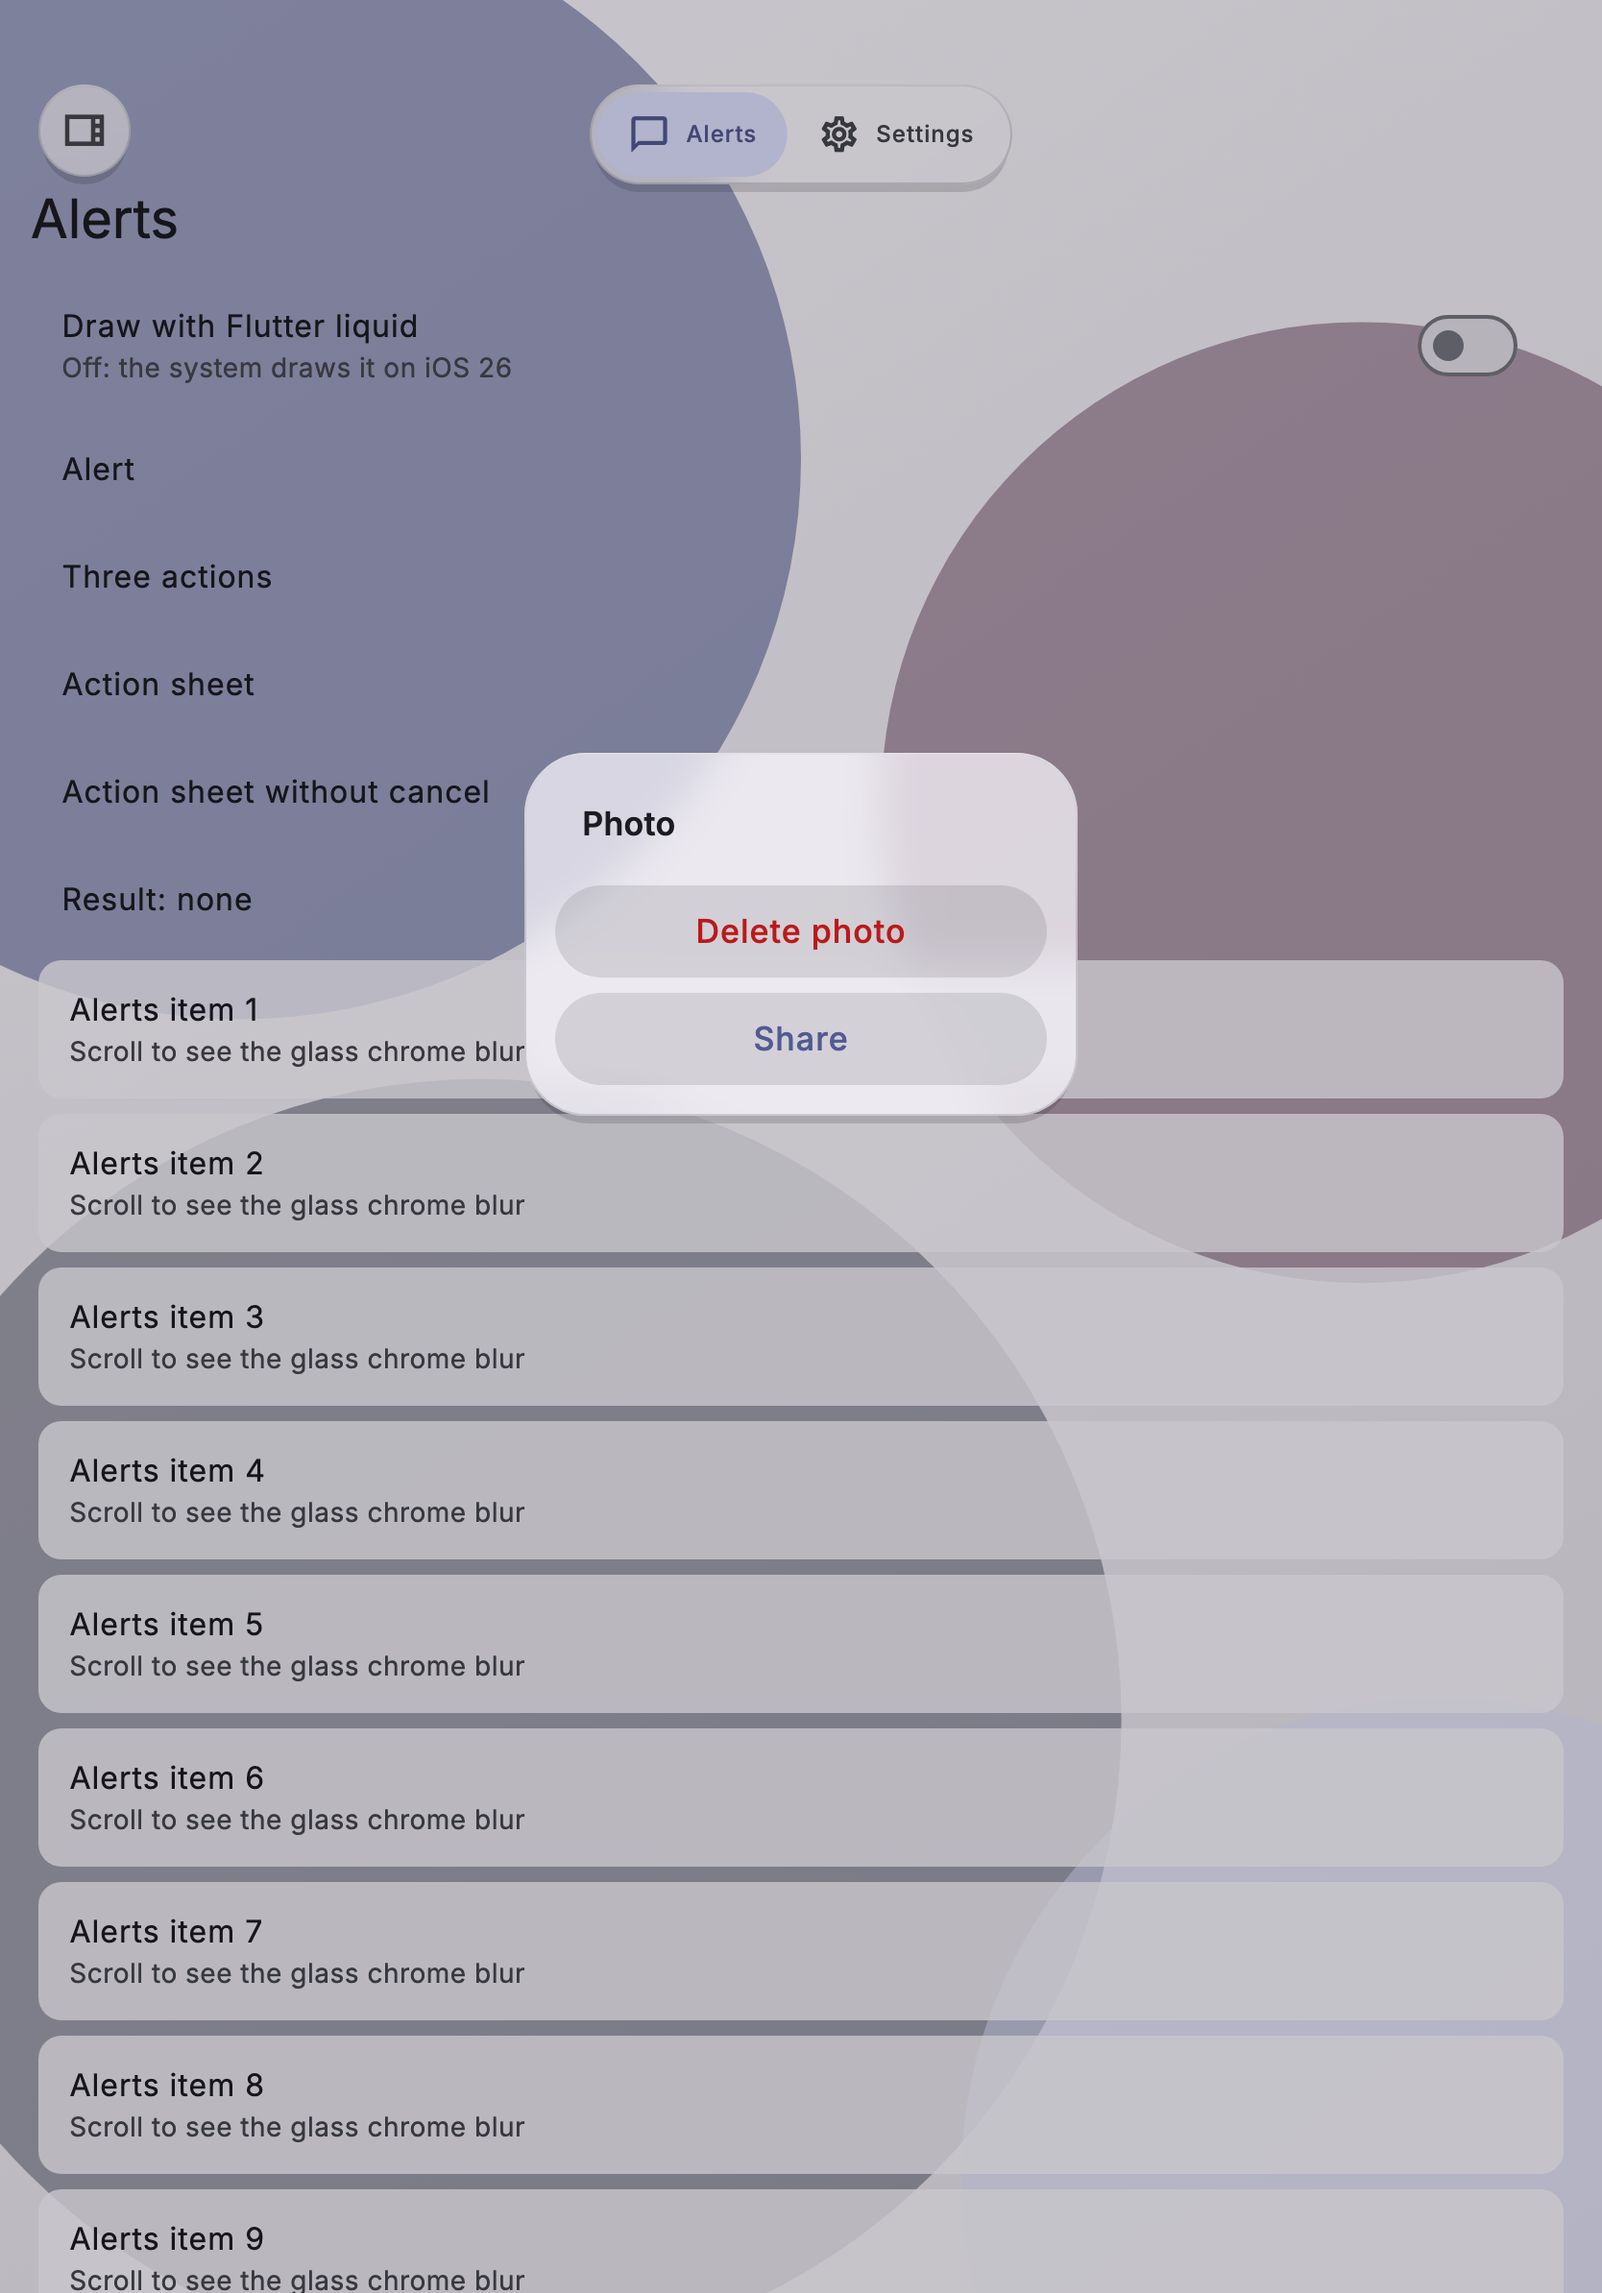
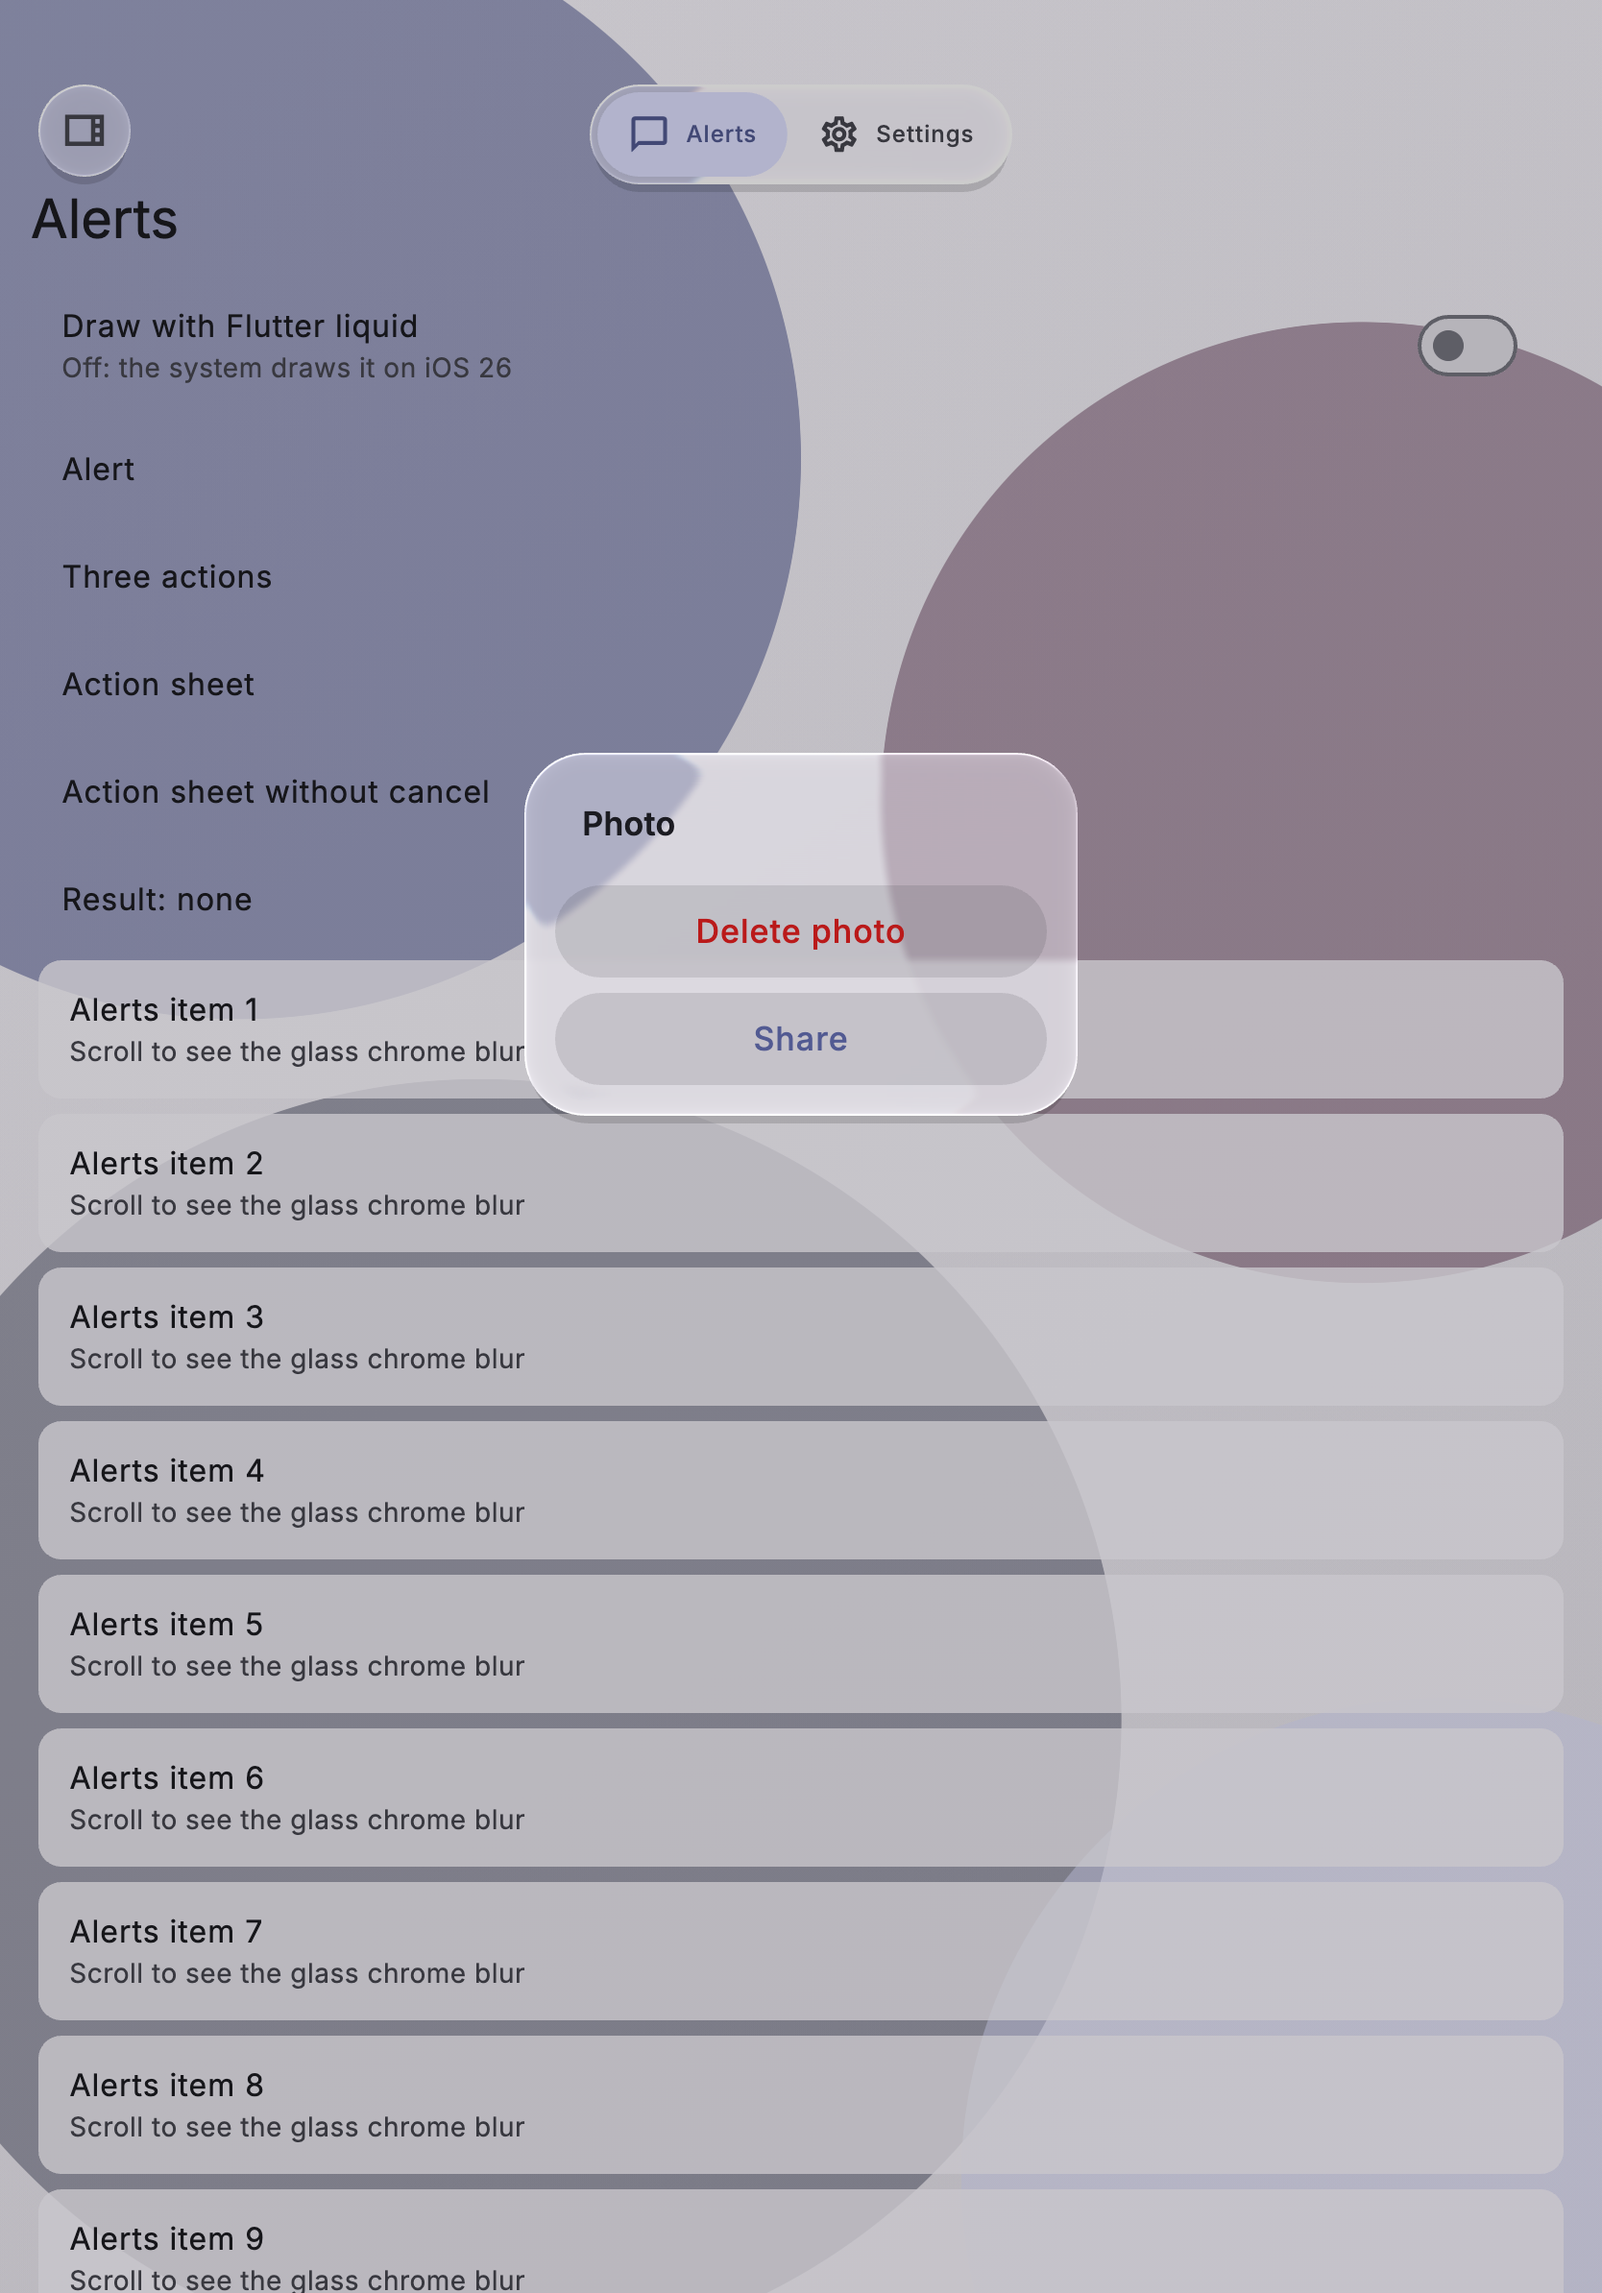
test(dialogs): the Flutter glass dialogs draw the liquid tier (VK-348)
Owner decision L3. GlassAlert and GlassActionSheet already draw through
LiquidGlass; a widget test pins that they take the liquid tier where it
exists, and the case_alert and case_action_sheet doc images move to the
Impeller golden set, so they show the liquid dialogs.

Changed region(s): [[0.53, 0.3099, 0.6859, 0.4338], [0.3118, 0.3099, 0.4365, 0.4028], [0.0312, 0.031, 0.0624, 0.062]]

diff --git a/liquid_shell/test/widget/glass_dialogs_test.dart b/liquid_shell/test/widget/glass_dialogs_test.dart
@@ -1,9 +1,12 @@
+import 'dart:ui' show ImageFilter;
+
 import 'package:flutter/material.dart';
 import 'package:flutter/services.dart';
 import 'package:flutter_test/flutter_test.dart';
 import 'package:liquid_shell/liquid_shell.dart';
 import 'package:liquid_shell/src/dialogs/dialog_metrics.dart';
 import 'package:liquid_shell/src/dialogs/glass_dialogs.dart';
+import 'package:liquid_shell/src/glass/liquid_backdrop.dart';
 import 'package:liquid_shell_platform_interface/liquid_shell_platform_interface.dart';
 
 const _cancel = LiquidNativeDialogAction(
@@ -369,5 +372,38 @@ void main() {
     await tester.pumpWidget(const SizedBox());
     await _open(tester, request(LiquidNativeDialogKind.actionSheet));
     expect(tester.takeException(), isNull);
+  });
+
+  // Owner decision L3: the Flutter dialogs are LiquidGlass, so they take the
+  // liquid tier wherever the shell's own glass does.
+  testWidgets('alert and action sheet draw the liquid tier where it exists', (
+    tester,
+  ) async {
+    debugLiquidGlassCanRefractOverride = true;
+    // `ImageFilter.shader` throws without Impeller: a blur stands in.
+    debugLiquidFilterFactory = (shader, sigma) =>
+        ImageFilter.blur(sigmaX: sigma, sigmaY: sigma);
+    addTearDown(() => debugLiquidFilterFactory = null);
+    await tester.runAsync(LiquidGlass.precache);
+
+    await _open(tester, _request());
+    expect(_in(GlassAlert, find.byType(LiquidBackdrop)), findsOneWidget);
+
+    await tester.pumpWidget(const SizedBox());
+    await _open(
+      tester,
+      _request(
+        kind: LiquidNativeDialogKind.actionSheet,
+        actions: const [_share, _cancel],
+      ),
+    );
+    final sheetGlass = tester.widgetList(
+      _in(GlassActionSheet, find.byType(LiquidGlass)),
+    );
+    expect(sheetGlass, isNotEmpty);
+    expect(
+      _in(GlassActionSheet, find.byType(LiquidBackdrop)),
+      findsNWidgets(sheetGlass.length),
+    );
   });
 }

diff --git a/liquid_shell/example/test/goldens/liquid_test.dart b/liquid_shell/example/test/goldens/liquid_test.dart
@@ -9,6 +9,7 @@ import 'package:liquid_shell/liquid_shell.dart';
 import 'package:liquid_shell_example/cases/basic_tabs.dart';
 import 'package:liquid_shell_example/cases/custom_theme.dart';
 import 'package:liquid_shell_example/cases/forced_tier.dart';
+import 'package:liquid_shell_example/cases/native_alerts.dart';
 import 'package:liquid_shell_example/cases/sidebar_slots.dart';
 
 import '../support/golden_harness.dart';
@@ -97,9 +98,14 @@ void main() {
     Widget child, {
     GoldenDevice device = iphone,
     Brightness brightness = Brightness.light,
+    Future<void> Function()? interact,
   }) async {
     await tester.runAsync(LiquidGlass.precache);
     await pumpGolden(tester, child, device: device, brightness: brightness);
+    if (interact != null) {
+      await interact();
+      await tester.pumpAndSettle();
+    }
     await expectDocImage(tester, name);
   }
 
@@ -123,6 +129,27 @@ void main() {
       tester,
       'case_tier_liquid',
       const ForcedTierCase(initialTier: LiquidGlassTier.liquid),
+    );
+  });
+
+  // The Flutter glass dialogs are LiquidGlass (owner decision L3): on the
+  // default tier they are liquid, like the shell.
+  testWidgets('case_alert', (tester) async {
+    await liquid(
+      tester,
+      'case_alert',
+      const NativeAlertsCase(),
+      interact: () => tester.tap(find.text('Alert')),
+    );
+  });
+
+  testWidgets('case_action_sheet', (tester) async {
+    await liquid(
+      tester,
+      'case_action_sheet',
+      const NativeAlertsCase(),
+      device: ipadPortrait,
+      interact: () => tester.tap(find.text('Action sheet')),
     );
   });
 

diff --git a/liquid_shell/example/test/goldens/cases_test.dart b/liquid_shell/example/test/goldens/cases_test.dart
@@ -12,7 +12,6 @@ import 'package:liquid_shell_example/cases/discard_guard.dart';
 import 'package:liquid_shell_example/cases/forced_tier.dart';
 import 'package:liquid_shell_example/cases/hide_chrome.dart';
 import 'package:liquid_shell_example/cases/narrow_width.dart';
-import 'package:liquid_shell_example/cases/native_alerts.dart';
 import 'package:liquid_shell_example/cases/sidebar_only.dart';
 import 'package:liquid_shell_example/cases/sidebar_slots.dart';
 import 'package:liquid_shell_example/cases/standalone_widgets.dart';
@@ -74,25 +73,6 @@ void main() {
       'case_guard',
       const DiscardGuardCase(),
       interact: () => tester.tap(find.text('Explore')),
-    );
-  });
-
-  testWidgets('case_alert', (tester) async {
-    await golden(
-      tester,
-      'case_alert',
-      const NativeAlertsCase(),
-      interact: () => tester.tap(find.text('Alert')),
-    );
-  });
-
-  testWidgets('case_action_sheet', (tester) async {
-    await golden(
-      tester,
-      'case_action_sheet',
-      const NativeAlertsCase(),
-      device: ipadPortrait,
-      interact: () => tester.tap(find.text('Action sheet')),
     );
   });
 

diff --git a/liquid_shell/CHANGELOG.md b/liquid_shell/CHANGELOG.md
@@ -9,6 +9,10 @@
 - Frosted instead of liquid without Impeller, on Android without Vulkan 1.1
   or under 3 GiB of memory, in battery saver and iOS Low Power Mode, after
   sustained slow frames, and inside another `BackdropFilter`.
+- The Flutter glass alert and action sheet (`showLiquidAlert` /
+  `showLiquidActionSheet` off the native path) draw the liquid tier too:
+  they are `LiquidGlass`. Doc images `case_alert` and `case_action_sheet`
+  are now the liquid tier.
 - A `forcedTier` keeps shells under it on Flutter chrome.
 - `LiquidGlassSignals` gains `lowEnd`, `glesOnly`, `slowFrames` and
   `prefersFrosted`.

diff --git a/liquid_shell/doc/native_dialogs.md b/liquid_shell/doc/native_dialogs.md
@@ -4,7 +4,8 @@
 complete with the value of the action they picked. On iOS 26 and later the
 system draws the dialog: a `UIAlertController`, with Liquid Glass, above
 the native tab bar and sidebar. Everywhere else Flutter draws a glass
-dialog with `LiquidGlass`, the same glass as the shell. The call and the
+dialog with `LiquidGlass`, the same glass as the shell: liquid where the
+shell is liquid, frosted or solid where it falls back. The call and the
 answer are the same on every path.
 
 ## When the system draws the dialog
